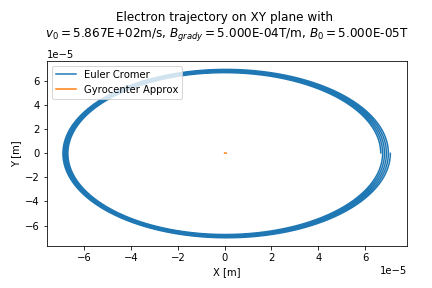
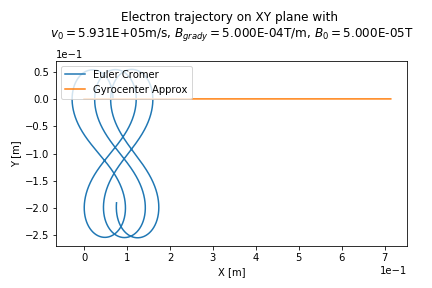
fixed initial energy and added matlat plots and code for wk-diagrams

diff --git a/wk_diagrams.m b/wk_diagrams.m
@@ -1,0 +1,64 @@
+close all
+
+a=1
+b=1
+B=1
+C=1
+psi=1
+
+k = linspace(-1.5,1.5,1000);
+
+w11 = (1/a).* sqrt(B*B+b*b*k.*k);
+w12 = (-1/a).*sqrt(B*B+b*b*k.*k);
+
+figure(1)
+plot(k,w11,'b')
+%xticks([-1, 0, 1])
+%xticklabels({'-\beta', '0',  '\beta'})
+%yticks([-1, 0, 1])
+%yticklabels({'-1/\alpha', '0',  '1/\alpha'})
+hold on
+plot(k,w12,'b')
+xlabel('k')
+ylabel('\omega (k)')
+
+
+figure(2)
+w2i=(1/a).* sqrt(B*B+sqrt(B*B*B*B+4*b*b*b*b.*k.*k.*k.*k.*k.*k));
+w2r=b*b.*k.*k.*k./w2i;
+plot(k,w2i,'r')
+hold on
+plot(k,-1.*w2i,'r')
+hold on
+plot(k,w2r,'b')
+hold on
+plot(k,-1.*w2r,'b')
+xlabel('k')
+ylabel('\omega (k)')
+
+
+figure(3)
+w31 = (1/a).* sqrt(-b*b*k.*k.*k.*k+B*B);
+hold on
+w32 = -(1/a).* sqrt(-b*b*k.*k.*k.*k+B*B);
+plot(k,w31,'b')
+plot(k,w32,'b')
+xlabel('k')
+ylabel('\omega (k)')
+
+figure(4)
+w4 = (k./a).*(b*k.*k+C);
+plot(k,w4)
+xlabel('k')
+ylabel('\omega (k)')
+
+figure(5)
+w5=(k./a).*(b*k.*k.*k+2*C*psi);
+plot(k,w5)
+xlabel('k')
+ylabel('\omega (k)')
+
+
+
+
+

diff --git a/gradB.py b/gradB.py
@@ -6,15 +6,16 @@ Created on Tue Apr 13 12:00:13 2021
 """
 
 import matplotlib.pyplot as plt
+from math import sqrt
 from mpl_toolkits import mplot3d
 
 from BDriftSolver import BDriftSolver as Solver
 
 t_0=0
-
+eVtoJ = 1.60217662 * 10 **-19
 
 #1 is electron, 2 is proton
-run=2
+run=1
 
 
 #Mass in KG
@@ -24,9 +25,9 @@ m_p=1.6726219*10**(-27)
 q_e=-1.602176634*10**(-19)
 q_p=1.602176634*10**(-19)
 
-v_e=5.344286*10**(-28)/m_e
+v_e=sqrt(2*eVtoJ/m_e)
 
-v_p=5.344286 * 10**(-28)/m_p
+v_p=sqrt(2*eVtoJ/m_p)
 
 
 #Initial position and velocity
@@ -34,7 +35,7 @@ r_0=[0,0,0]
 
 
 #Magnetic field gradient and magnetic field given in Tesla
-B_grad=[0,5*10**(-4),0]
+B_grad=[0,5*10**(-4),0] #change this value
 B_0=[0,0,50*10**(-6)]
 
 

diff --git a/spacecraft_potential.m b/spacecraft_potential.m
@@ -1,0 +1,11 @@
+m_e = 9.109384e-31
+m_i = 1.672622e-27
+
+q_e = 1.602177e-19
+
+k=1.380649e-23
+
+
+T=1500
+
+phi = (T*k/q_e)*log((pi*m_e)/(8*m_i))
